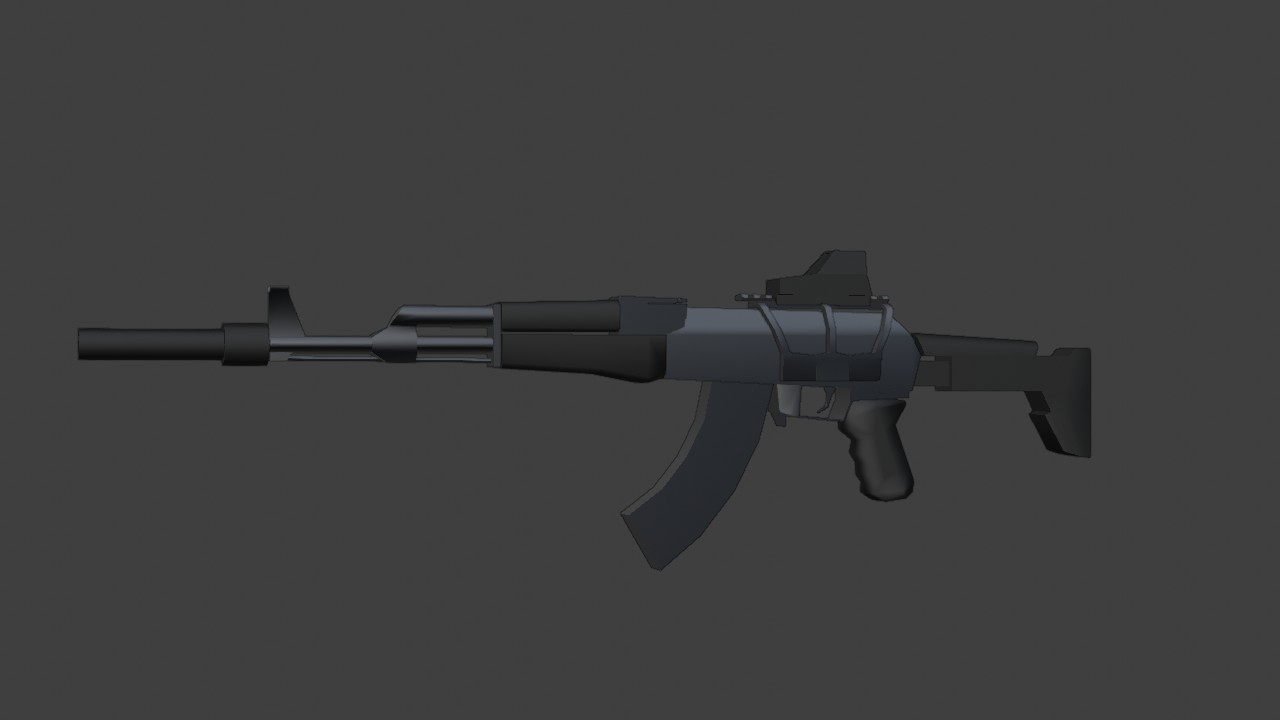
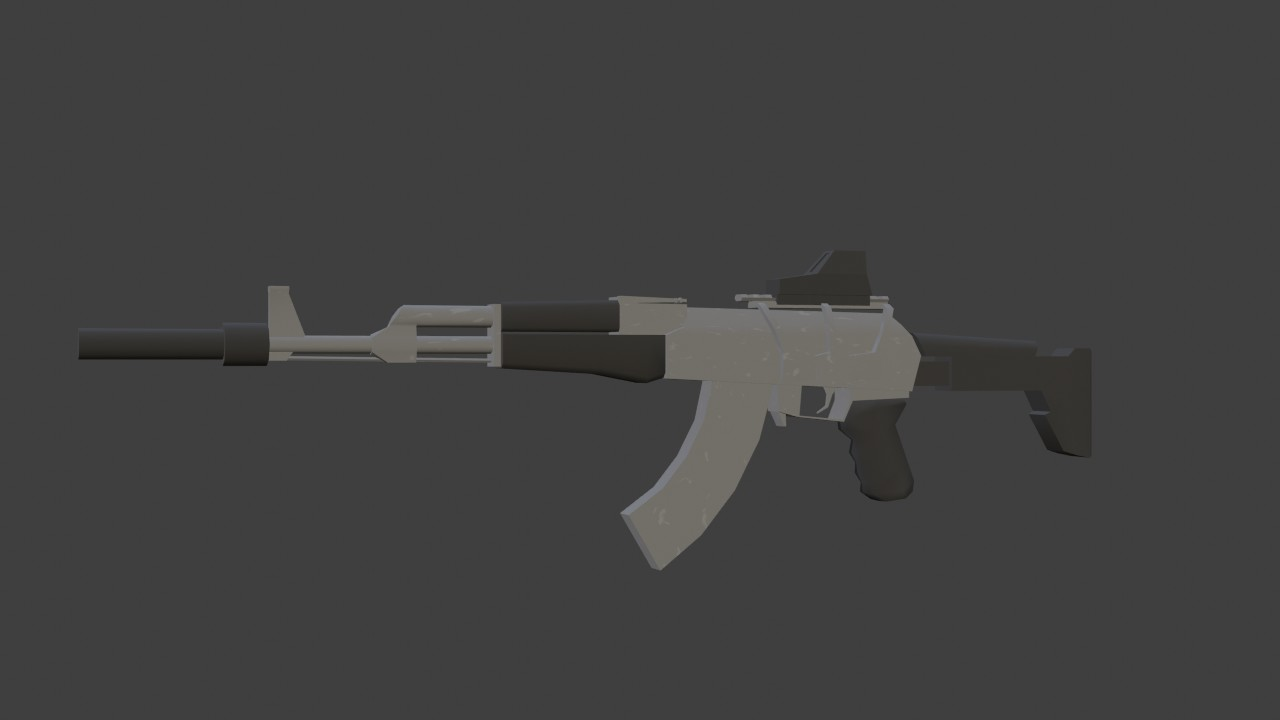
Add files via upload
Kontenttia

Changed region(s): [[0.4688, 0.3361, 0.8125, 0.7944], [0.1562, 0.3972, 0.4062, 0.5194]]

diff --git a/generic.html b/generic.html
@@ -83,15 +83,39 @@
 									<p>Alue koostuu asuinkerrostalojen ympäröimästä sisäpihasta, jonka keskustasta lähtee neljä reittiä kerrostalojen läpi. Alueelta löytyy penkkien ja roskakorien ohella erilaisia leikkilaitteita.</p>
 									<div class="col-4"><span class="image fit"><img src="images/puisto.jpg" alt="puisto" /></span></div>
 
-									<p>Betonipenkit</p>
+									<p>Sisäpihan penkkeissä ja roskakoreissa toistuu tekniikka, jota käytin projektissa useaan otteeseen eli saman tekstuurin käyttäminen useassa eri objektissa. Koska sekä penkki että roskakori ovat samaa, yksinkertaista betonimateriaalia, niin en kokenut tarpeellikseksi luoda niille omia tekstuureitaan. Tämä on yksi tapa, jolla peliä on optimoita.</p>
+
+									
 									<div class="col-4"><span class="image fit"><img src="images/betonipenkit.jpg" alt="betonia" /></span></div>
 
-									<p>Puistossa oleva liukumäki on mallinnettu referenssikuvan mukaan, joka löytyi googlettamalla brutalismia:</p>
+									<p>Laitteisiin otettiin mallia oikeassa maailmassa esiintyvistä esineistä. Puistossa oleva liukumäki on mallinnettu referenssikuvan mukaan, joka löytyi googlettamalla brutalismia.</p>
 									<div class="col-4"><span class="image fit"><img src="images/liukumaki_model.jpg" alt="liukumäki" /></span></div>
 									<div class="col-4"><span class="image fit"><img src="images/liukumaki.jpg" alt="liukumäen referenssikuva" /></span></div>
+
+									<p>Joidenkin 3D-mallien suhteen halusin käyttää omaa luovuuttani. Esimerkiksi sisäpihan keinun keskiosana toimii betoniporsas.</p>
+									<div class="col-4"><span class="image fit"><img src="images/keinu.jpg" alt="keinu" /></span></div>
 									
 								<h5>Dungeon 2 (kerrostalo)</h5>
-									<p>Oof</p>
+									<p>Jossain vaiheessa projektia ensimmäinen dungeon kuopattiin ja aloimme toteuttamaan uutta kenttää, joka sijoittuu rähjäiseen kerrostaloon, jonka viholliset ovat ottaneet tukikohdakseen. </p>
+
+									<p>Scrum master Jan suunnitteli kentälle pohjan Excelin avulla. Noudatin mallintamisessa pohjaa pääosin, mutta joissain tapauksissa, kuten rappukäytävässä, tein omia muutoksia, jotka tuntuivat realistisilta. Esimerkiksi rappukäytävä oli suunnitelmassa hyvin pieni, joten tein siitä enemmän pelaajanmentävän.</p>
+
+									<p>Tämä on kentän ensimmäinen versio, joka on toteutettu modulaariseilla seinä- ja lattiapaloilla. Unity-puolen kehittäjät eivät tykänneet siitä miten paljon aikaa light mapin luomiseen meni, joten minun piti tehdä seinistä ja lattioista erilliset objektinsa.</p>
+
+									<div class="col-4"><span class="image fit"><img src="images/dungeon2.1.png" alt="dungeon2" /></span></div>	
+
+
+									<p>Uudessa versiossa seinät ja lattiat ovat kokonaan yhtä isoa objektia ja niistä on poistettu kaikki turhat facet optimoinnin takaamiseksi.</p>
+
+									<div class="col-4"><span class="image fit"><img src="images/dungeon2.2.png" alt="dungeon2" /></span></div>
+									
+									<p>Dungeon 2 on täynnä erilaisia huonekaluja, lamppuja ja roskia, joten mallinsin viimeisten sprinttien aikana niitä runsaasti.</p>
+
+									<p>Jokaisessa mallissa on käytetty Blenderin proseduraalisia tekstuureja, esimerkiksi tummat ja likaiset tahrat ovat tehty noise-tekstuurin avulla.</p>
+									<div class="col-4"><span class="image fit"><img src="images/koristeet.png" alt="huonekaluja" /></span></div>
+									<p>Huonekaluja ja laitteita löytyy laidasta laitaan.</p>
+									<div class="col-4"><span class="image fit"><img src="images/koristeet2.png" alt="huonekaluja" /></span></div>
+	
 
 								<h5>Pelaaja</h5>
 
@@ -112,16 +136,36 @@
 
 									<div class="col-4"><span class="image fit"><img src="images/vihollinen.jpg" alt="vihollinen" /></span></div>
 
+									<p>Vihollisen tekstuuri.</p>
+
+									<div class="col-4"><span class="image fit"><img src="images/enemy.png" alt="vihollinen" /></span></div>
+
+								<h5>Entiteetti</h5>
+
+									<p>Pelissä olevista entiteeteistä sain ensimmäisenä valmistettua Vaenan. </p>
+									<p>Vaena on saanut vaikutteita Kalevalan Väinämöiseltä. Tämä näkyy muun muuassa siinä, että Vaena käyttää aseenaan miekkaa ja maskia, joka on koottu hauenpäästä (esikuvana kantele, jonka Väinämöinen teki hauen leukaluusta.)</p>
+									<p>Vaenan viitta on erillinen objekti ja sen on tarkoitus liehua pelissä.</p>
+
+									<div class="col-4"><span class="image fit"><img src="images/vaena.jpg" alt="vaena" /></span></div>
+
+
 
 								<h5>Ase</h5>
 
 									<p>Yksi pelin tärkeimmistä ominaisuuksista on pelaajan rynnäkkökivääri, jota pelaaja kehittää pelin edetessä hankkien siihen uusia osia tai lisävarusteita. Erilaiset osat tuottavat erilaisia ominaisuuksia, esimerkiksi punapistetähtäimellä saa parannettua tarkkuutta.</p>
-									<p>Pelaajan muokkaamaton ase on mallinnettu AK-47 -tyyppisten aseiden mukaan. Osat ovat eri objekteja.</p>
+									<p>Pelaajan muokkaamaton ase on mallinnettu AK-47 -tyyppisten aseiden mukaan. Osat ovat eri objekteja ja niitä pystyy pelissä vaihtamaan toisiin.</p>
 									<div class="col-4"><span class="image fit"><img src="images/ak01.jpg" alt="ase" /></span></div>
 									<div class="col-4"><span class="image fit"><img src="images/ak02.jpg" alt="ase" /></span></div>
 									<div class="col-4"><span class="image fit"><img src="images/ak03.jpg" alt="ase" /></span></div>
 									<div class="col-4"><span class="image fit"><img src="images/ak04.jpg" alt="ase" /></span></div>
 									<div class="col-4"><span class="image fit"><img src="images/ak05.jpg" alt="ase" /></span></div>
+									<p>Aseen puutekstuuri on luotu proseduraalisesti Blenderissä yhdistämällä wave-tekstuuria ja kahta oranssinruskeaa väriä.</p>
+									<p>Ensimmäiseksi luodaan puulle tyypillisiä renkaita.</p>
+									<div class="col-4"><span class="image fit"><img src="images/puumateriaali.png" alt="puu" /></span></div>
+									<p>Seuraavaksi laitan wave-tekstuurin hieman vääristystä. Alkaa jo näyttää paremmalta.</p>
+									<div class="col-4"><span class="image fit"><img src="images/puumateriaali2.png" alt="puu" /></span></div>
+									<p>Lopuksi yhdistetään lopulliseen tekstuuriin wave-tekstuurin mustan ja valkoisen väriarvon mukaan kahta eri sävyistä ruskeaa väriä. Hyvältä näyttää!</p>
+									<div class="col-4"><span class="image fit"><img src="images/puumateriaali3.png" alt="puu" /></span></div>
 
 
 								<hr />
@@ -135,7 +179,7 @@
 								<hr />
 
 								<h4 id="reflektointi">Reflektointi</h4>
-								<p>Tähän väliin sitten omia kokemuksia projektista.</p>
+								<p>Tähän väliin sitten omia kokemuksia projektista ja osaamisen kehitystä.</p>
 								<p></p>
 
 								<hr />
@@ -144,6 +188,9 @@
 								<p>Aion projektin jälkeen jatkaa 3D-mallintamista ja kehittyä lajissa entistä paremmaksi. Tavoitteena on panostaa entistä vaativimpiin malleihin rakennuksista pelihahmoihin.</p>
 								<p>Ohjelmistona toimii lähtökohtaisesti tuttu ja turvallinen Blender. Ajattelin myös laajentaa osaamistani Substance Painterin kaltaiseen ohjelmistoon, jonka avulla voin laajentaa osaamistani teksturoinnista ja materiaaleista.</p>
 								<p>Mielessäni on käynyt myös ajatus kehittää itsenäisesti 3D-grafiikkapainotteista Unity-peliä</p>
+								<p>Minua kiinnostaisi tulevaisuudessa työskennellä peliteollisuudessa monella eri osa-alueella. Tämä projekti tukee erityisesti graafisen puolen ammattivalintoja. Ticorporaten myötä sain arvokasta kokemusta projektityöskentelystä ja valmiiden peliassettien luomisesta.</p>
+								<p>En myöskään poissulje yrittäjäksi ryhtymistä.</p>
+								
 								
 							</div>
 						</section>

diff --git a/index.html b/index.html
@@ -52,8 +52,7 @@
 					<section id="one" class="wrapper style1 special">
 						<div class="inner">
 							<header class="major">
-								<h2>Arcu aliquet vel lobortis ata nisl<br />
-								eget augue amet aliquet nisl cep donec</h2>
+								<h2></h2>
 								<p>Aliquam ut ex ut augue consectetur interdum. Donec amet imperdiet eleifend<br />
 								fringilla tincidunt. Nullam dui leo Aenean mi ligula, rhoncus ullamcorper.</p>
 							</header>
@@ -66,7 +65,7 @@
 					</section>
 
 				<!-- Two -->
-					<section id="two" class="wrapper alt style2">
+				<!--	<section id="two" class="wrapper alt style2">
 						<section class="spotlight">
 							<div class="image"><img src="images/pic01.jpg" alt="" /></div><div class="content">
 								<h2>Devoid Tomorrow</h2>
@@ -85,7 +84,7 @@
 								<p>Aliquam ut ex ut augue consectetur interdum. Donec hendrerit imperdiet. Mauris eleifend fringilla nullam aenean mi ligula.</p>
 							</div>
 						</section>
-					</section>
+					</section> -->
 
 				<!-- Three -->
 					<section id="three" class="wrapper style3 special">
